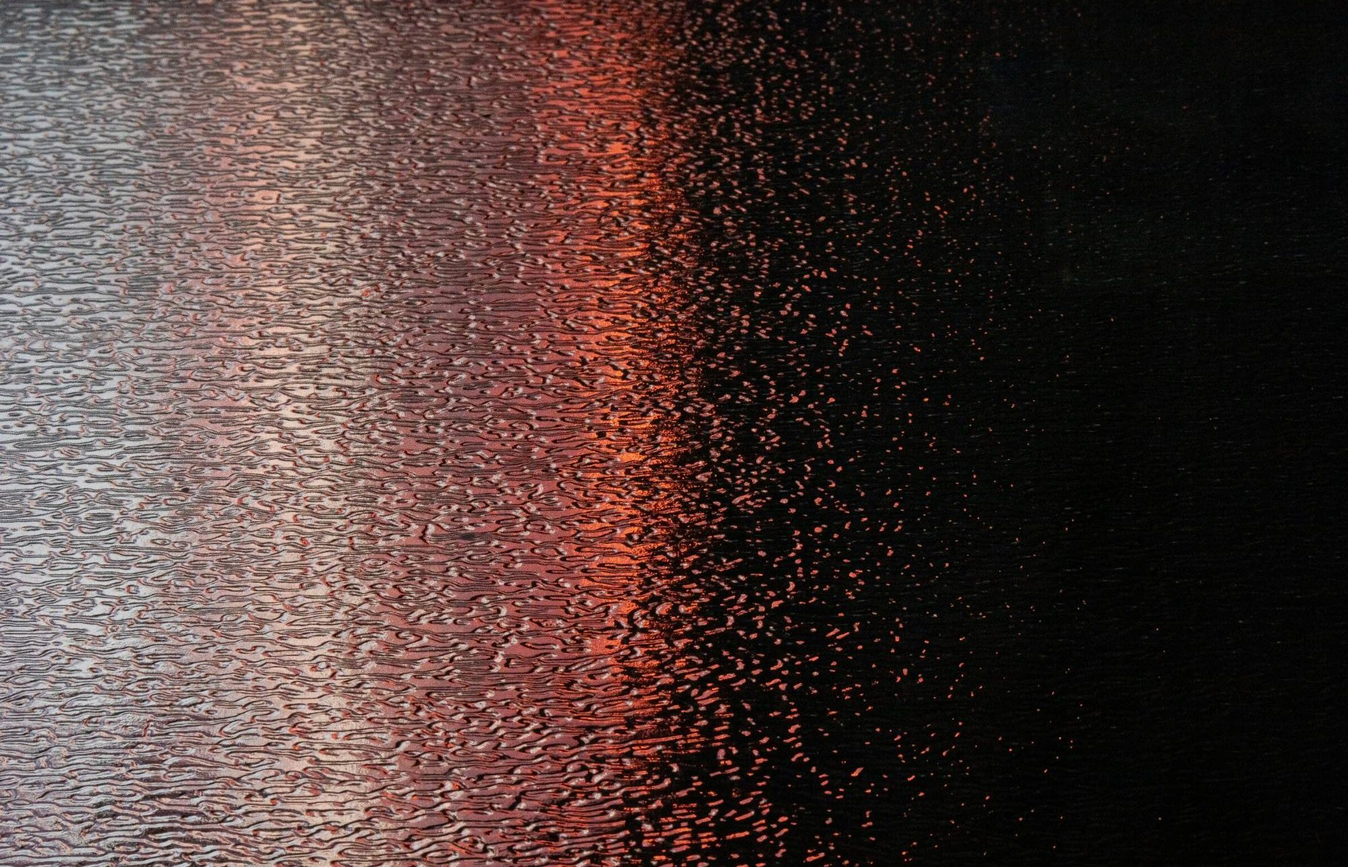
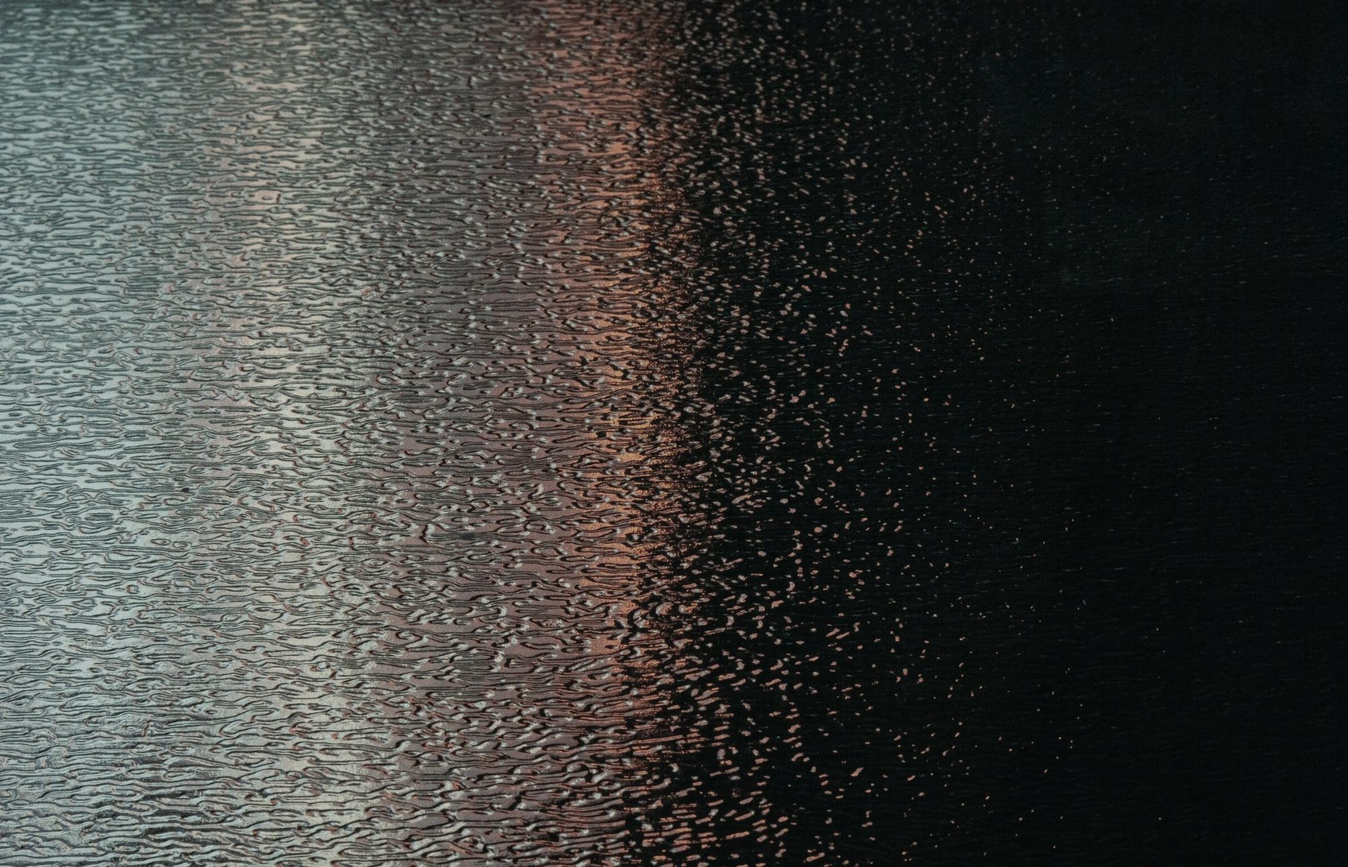
Cool the background toward the portrait's teal-sage
Claude-Session: https://claude.ai/code/session_01WoWQJpH5wFMzrHNPNsALdL

diff --git a/index.html b/index.html
@@ -4,7 +4,7 @@
   <meta charset="UTF-8">
   <meta name="viewport" content="width=device-width, initial-scale=1.0">
   <title>Nadia Garfunkel</title>
-  <link rel="stylesheet" href="style.css?v=27">
+  <link rel="stylesheet" href="style.css?v=28">
   <link rel="preconnect" href="https://fonts.googleapis.com">
   <link rel="preconnect" href="https://fonts.gstatic.com" crossorigin>
   <link href="https://fonts.googleapis.com/css2?family=Manrope:wght@400;500;600&display=swap" rel="stylesheet">
